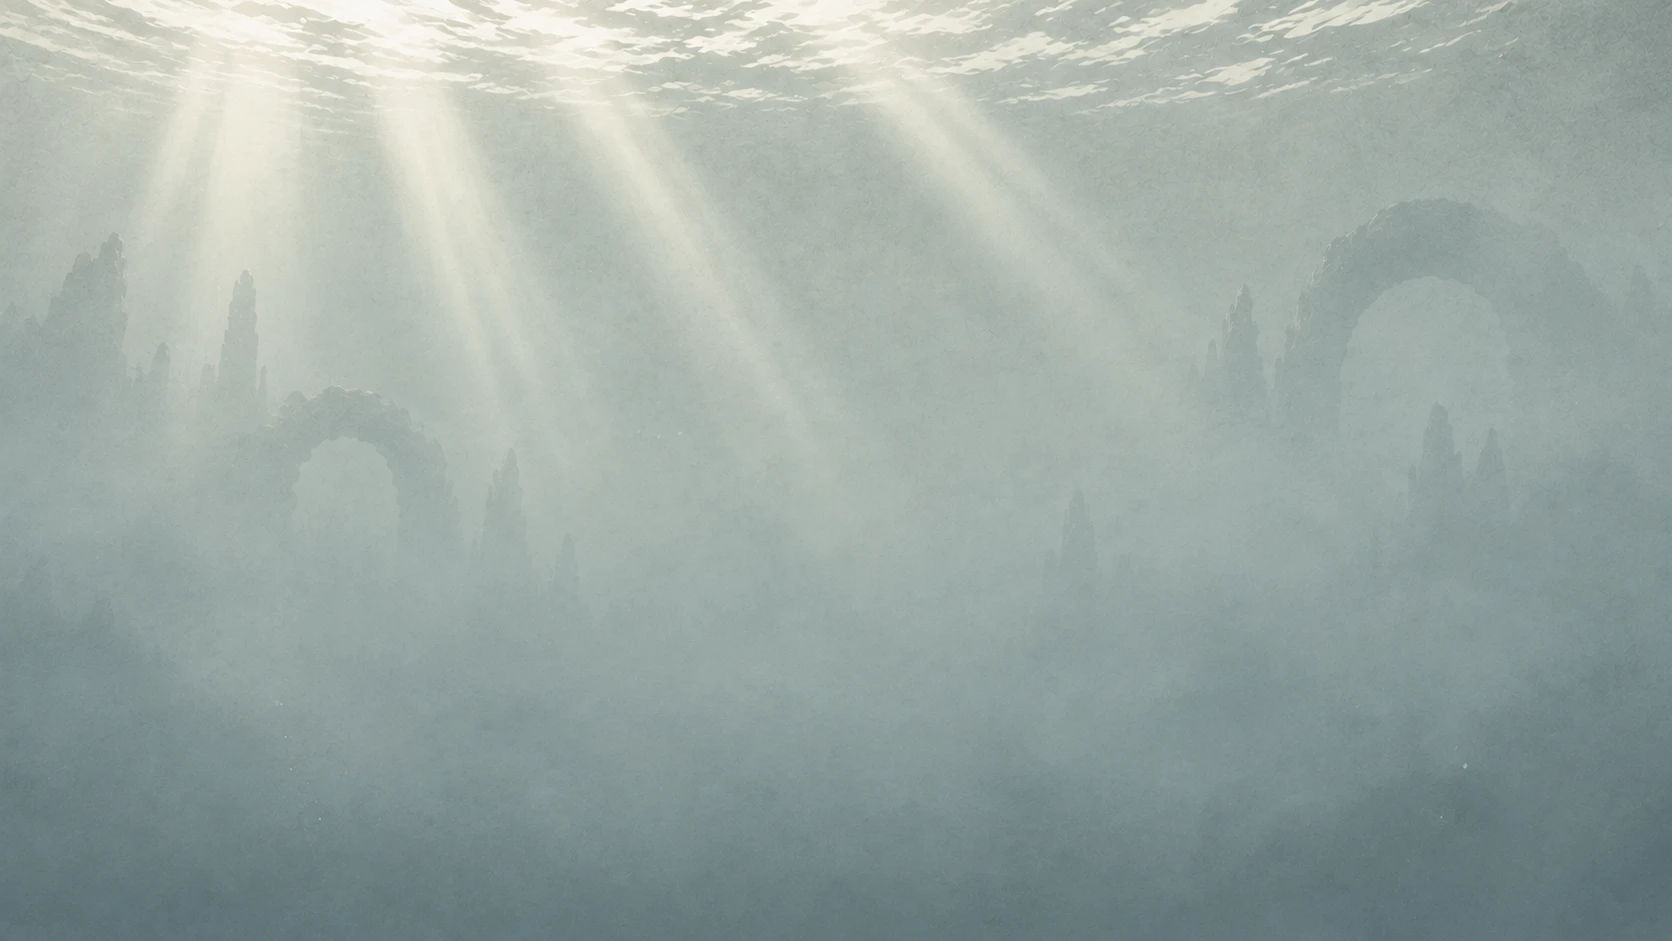
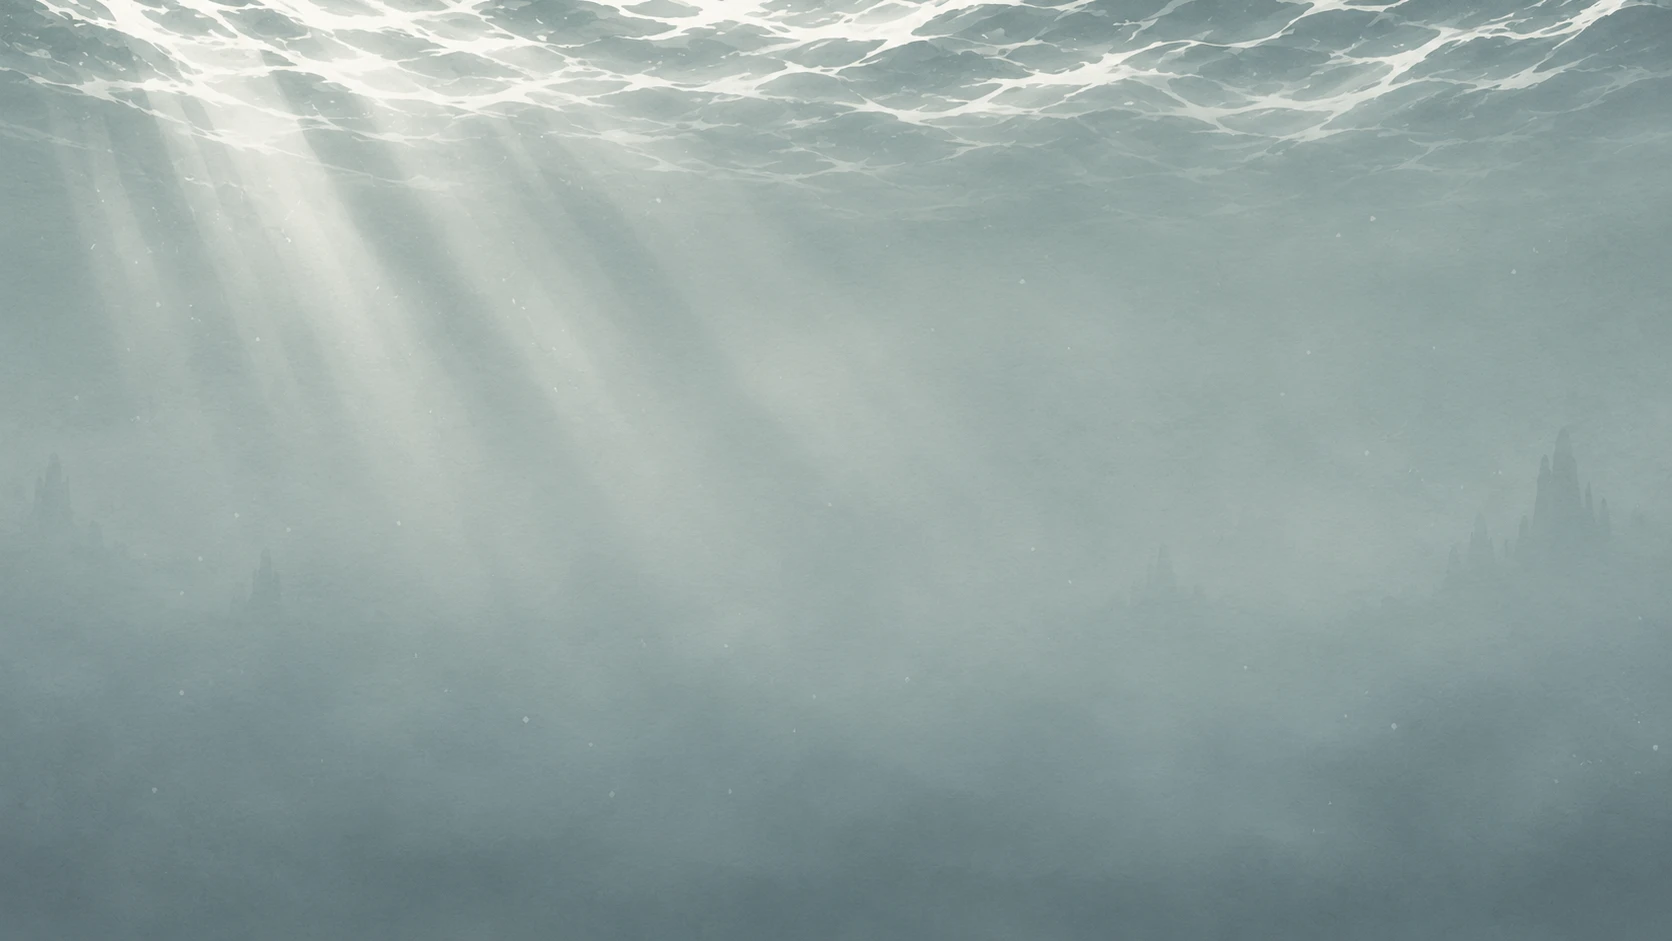
Swap in arch-free far layer and phone portrait background; fix small-phone bar
- Far layer v2 (no arches) removes the duplicate arches against the mid layer;
  it lands on all four tier targets without re-tuning.
- Portrait 9:16 scene replaces the three landscape layers on phones, with its
  own calibrated tier grading (within 0.2% of target brightness).
- Control bar no longer overflows at 320 px; readouts fit at 400x225; power-up
  nodes no longer overlap on narrow screens.

Claude-Session: https://claude.ai/code/session_016UNRkeh3HLC3HuGtgN5Ain

Changed region(s): [[0.0, 0.0, 1.0, 0.4315], [0.2177, 0.4315, 0.2488, 0.4931]]

diff --git a/frontend/src/style.css b/frontend/src/style.css
@@ -42,6 +42,12 @@ button:disabled { cursor: not-allowed; opacity: .45; filter: grayscale(.5); }
 @keyframes drift-far { from { transform: translateX(-1%) scale(1.02); } to { transform: translateX(1%) scale(1.04); } }
 @keyframes drift-mid { from { transform: translateX(-8px); } to { transform: translateX(8px); } }
 @keyframes sway-front { from { transform: skewX(-1.2deg); } to { transform: skewX(1.2deg); } }
+/* Phones in portrait: one painted 9:16 scene replaces the three landscape layers. */
+.bg-portrait { display: none; background-position: center bottom; animation: drift-mid 20s ease-in-out infinite alternate; }
+@media (max-aspect-ratio: 5/4), (max-width: 820px) and (min-height: 521px) {
+  .bg-far, .bg-mid, .bg-front { display: none; }
+  .bg-portrait { display: block; }
+}
 .environment-fog {
   position: absolute; inset: 0; pointer-events: none; opacity: .45; transition: opacity 1.2s ease;
   background:
@@ -83,6 +89,12 @@ button:disabled { cursor: not-allowed; opacity: .45; filter: grayscale(.5); }
 .tier-abyssal .bg-far   { filter: sepia(50%) hue-rotate(225deg) saturate(150%) brightness(0.619); }
 .tier-abyssal .bg-mid   { filter: sepia(36%) hue-rotate(225deg) saturate(130%) brightness(0.638); }
 .tier-abyssal .bg-front { filter: grayscale(100%) sepia(18%) hue-rotate(225deg) saturate(115%) brightness(0.664); }
+/* Portrait scene is a single painted layer: graded like the middle layer, with its
+   green kelp desaturated first in the cast tiers (as for the landscape kelp). */
+.tier-riptide .bg-portrait   { filter: sepia(10%) saturate(115%) brightness(0.98); }
+.tier-undertow .bg-portrait  { filter: grayscale(100%) sepia(28%) hue-rotate(175deg) saturate(110%) brightness(0.841) contrast(1.08); }
+.tier-maelstrom .bg-portrait { filter: grayscale(100%) sepia(34%) hue-rotate(125deg) saturate(120%) brightness(0.747); }
+.tier-abyssal .bg-portrait   { filter: grayscale(100%) sepia(36%) hue-rotate(225deg) saturate(130%) brightness(0.635); }
 .tier-abyssal .particle { filter: drop-shadow(0 0 6px #a26ff0) drop-shadow(0 0 12px #a26ff0); }
 .tier-abyssal .bubble { border-color: rgba(226, 210, 255, .9); }
 
@@ -305,10 +317,12 @@ table.modes th { font-family: var(--f-lil); font-weight: 400; }
   .leviathan { left: auto; right: -6vw; width: 44vw; height: 80vw; bottom: 180px; }
   .bar {
     height: auto; padding: 8px 12px 10px; row-gap: 6px; width: min(96vw, 560px);
-    grid-template-columns: 1fr 1fr 1.2fr 1fr 1fr;
+    grid-template-columns: repeat(5, minmax(0, 1fr));
     grid-template-areas: "bal bal win bet bet" "buy menu spin auto pm";
   }
   .pm, .stack { flex-direction: row; justify-content: center; }
+  .read { min-width: 0; }
+  .read .v, .read .v.long { font-size: clamp(11px, 3.6vw, 16px); }
   .spin-btn { margin: 0; justify-self: center; width: 76px; height: 76px; }
   .buy-badge, .menu-btn { justify-self: center; }
   .buy-badge { width: 56px; height: 56px; }
@@ -325,6 +339,17 @@ table.modes th { font-family: var(--f-lil); font-weight: 400; }
   .bet-panel { flex-wrap: wrap; font-size: 16px; gap: 8px; }
   .logo .tag { position: absolute; left: 100%; top: 38%; margin: 0 0 0 4px; }
   .abyss-badge { width: 30%; right: -6%; top: -8%; }
+}
+/* very small phones (320 px wide) */
+@media (max-width: 360px) and (min-height: 521px) {
+  .bar { gap: 4px; padding: 6px 6px 8px; }
+  .round { width: 28px; height: 28px; }
+  .pm, .stack { gap: 3px; }
+  .spin-btn { width: 64px; height: 64px; }
+  .buy-badge { width: 48px; height: 48px; font-size: 9px; }
+  .menu-btn { width: 38px; height: 38px; }
+  .node { width: 22px; height: 22px; border-width: 2px; } .node.final { width: 28px; height: 28px; } .node .ico { width: 13px; height: 13px; }
+  .boss-head { font-size: 11px; }
 }
 /* short landscape: popouts (800x450, 400x225) and phones on their side */
 @media (max-height: 520px) and (min-aspect-ratio: 5/4) {
@@ -352,7 +377,8 @@ table.modes th { font-family: var(--f-lil); font-weight: 400; }
   .track, .boss-head { display: none; }
   .bar { height: 40px; } .spin-btn { width: 44px; height: 44px; }
   .buy-badge { width: 34px; height: 34px; font-size: 7px; } .menu-btn { width: 26px; height: 26px; }
-  .read .k { display: none; } .read .v { font-size: 9.5px; }
+  .read .k { display: none; } .read .v, .read .v.long { font-size: 8px; letter-spacing: -.02em; }
+  .bar { gap: 4px; padding: 0 6px; grid-template-columns: auto auto 2.2fr 1.3fr 1.1fr auto auto auto; }
   .round { width: 20px; height: 20px; } .round .ico { width: 11px; height: 11px; }
   .banner { display: none; }
   .logo { width: 70px; }

diff --git a/frontend/src/main.ts b/frontend/src/main.ts
@@ -9,6 +9,7 @@ import { DEFS, HERO_SVG, LEVIATHAN_SVG, LOGO_SVG, NOISE_URL, POWER_ICONS, UI_ICO
 import bgFar from "./assets/bg/bg_layer_far_fog.webp"
 import bgMid from "./assets/bg/bg_layer_mid_stacks_ship.webp"
 import bgFront from "./assets/bg/bg_layer_front_kelp.webp"
+import bgPortrait from "./assets/bg/bg_portrait.webp"
 import { SYMBOL_NAMES, SYMBOL_SPRITES, symbolSvg, type Code } from "./symbols"
 import { sfx } from "./audio"
 import { setSocial, t, translateTree } from "./text"
@@ -121,6 +122,7 @@ function sceneHtml(): string {
       <div class="bg-layer bg-mid" style="background-image:url(${bgMid})"></div>
       <div class="environment-fog"></div>
       <div class="bg-layer bg-front" style="background-image:url(${bgFront})"></div>
+      <div class="bg-layer bg-portrait" style="background-image:url(${bgPortrait})"></div>
       <div class="particles">${bubbles}${flakes}</div>
     </div>`
 }
